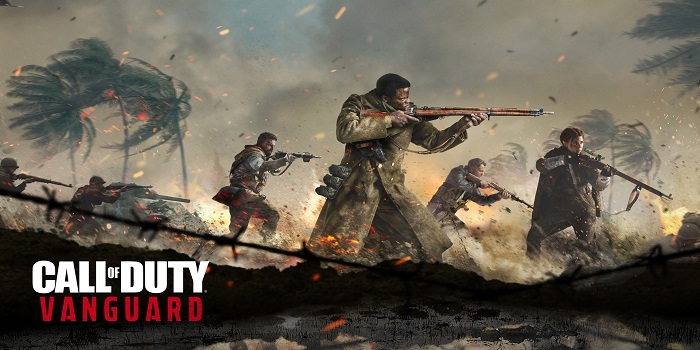
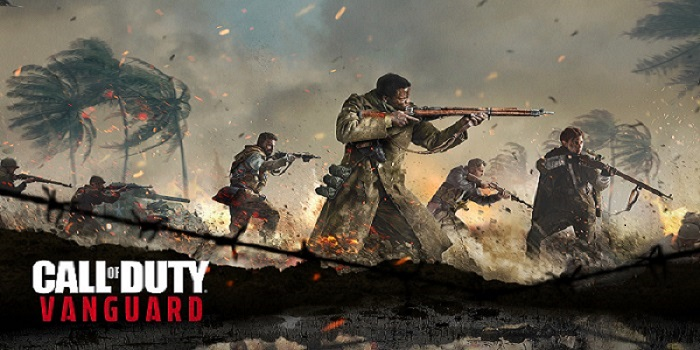
Editing about us page a bit.

diff --git a/public/css/app.css b/public/css/app.css
@@ -12,3 +12,14 @@ footer{
     height: 120px;
     width: 170px;
 }
+
+@media only screen and (min-width:986px){
+
+.smaller,img{
+    display: block;
+    margin-left: auto;
+    margin-right: auto;
+    width: 60%;
+    text-align: center;
+}
+}
